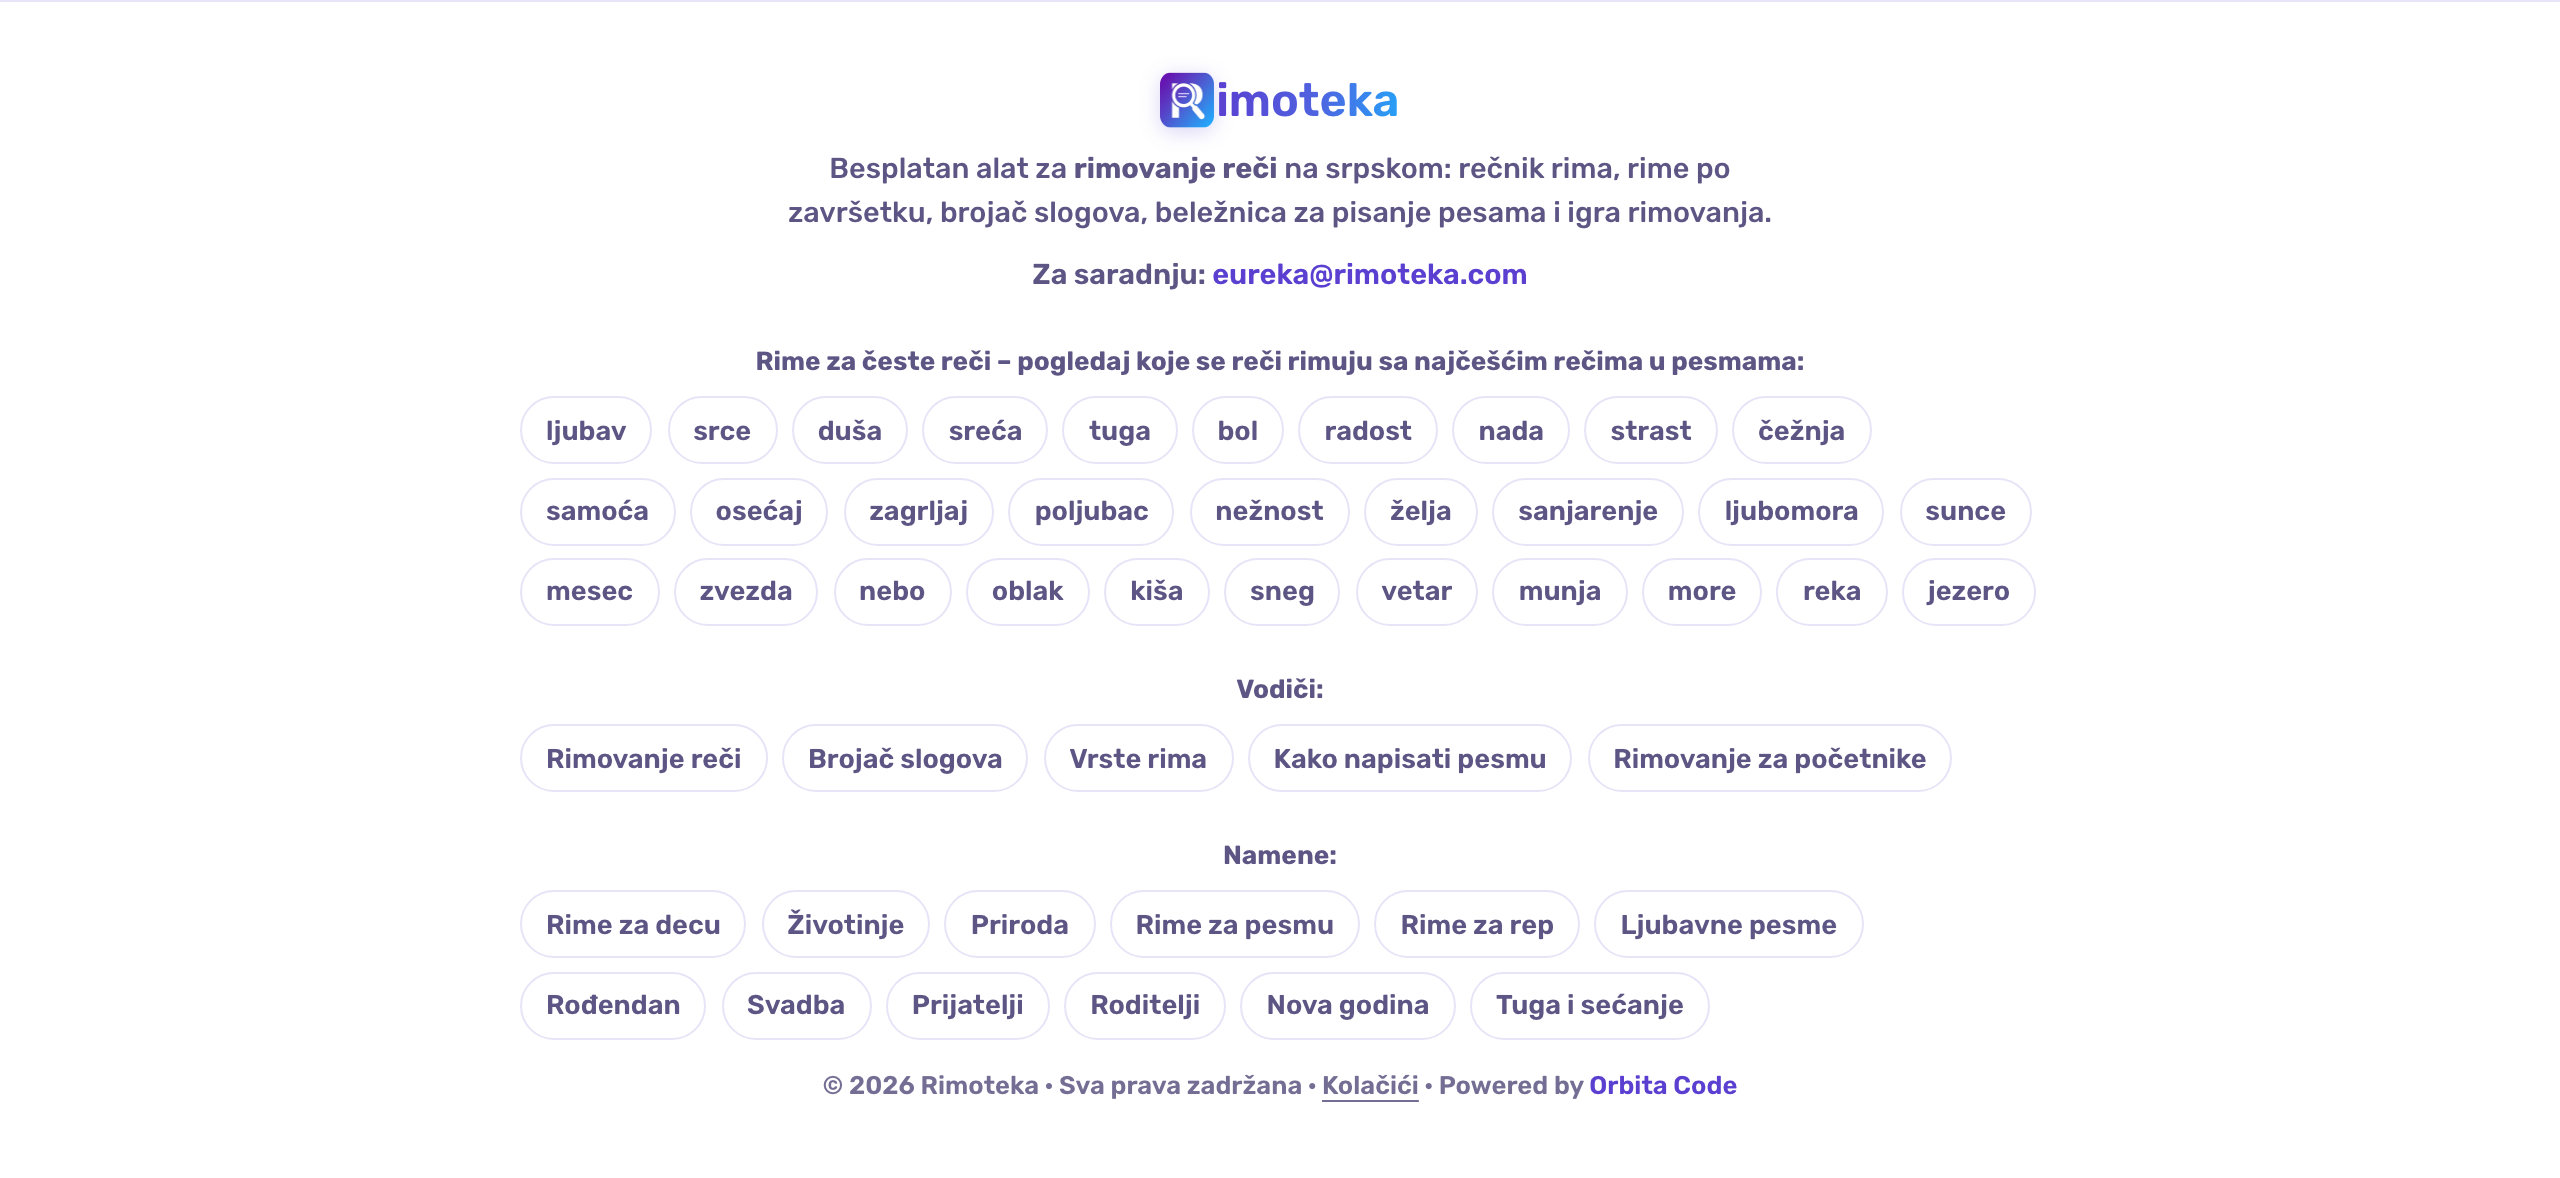
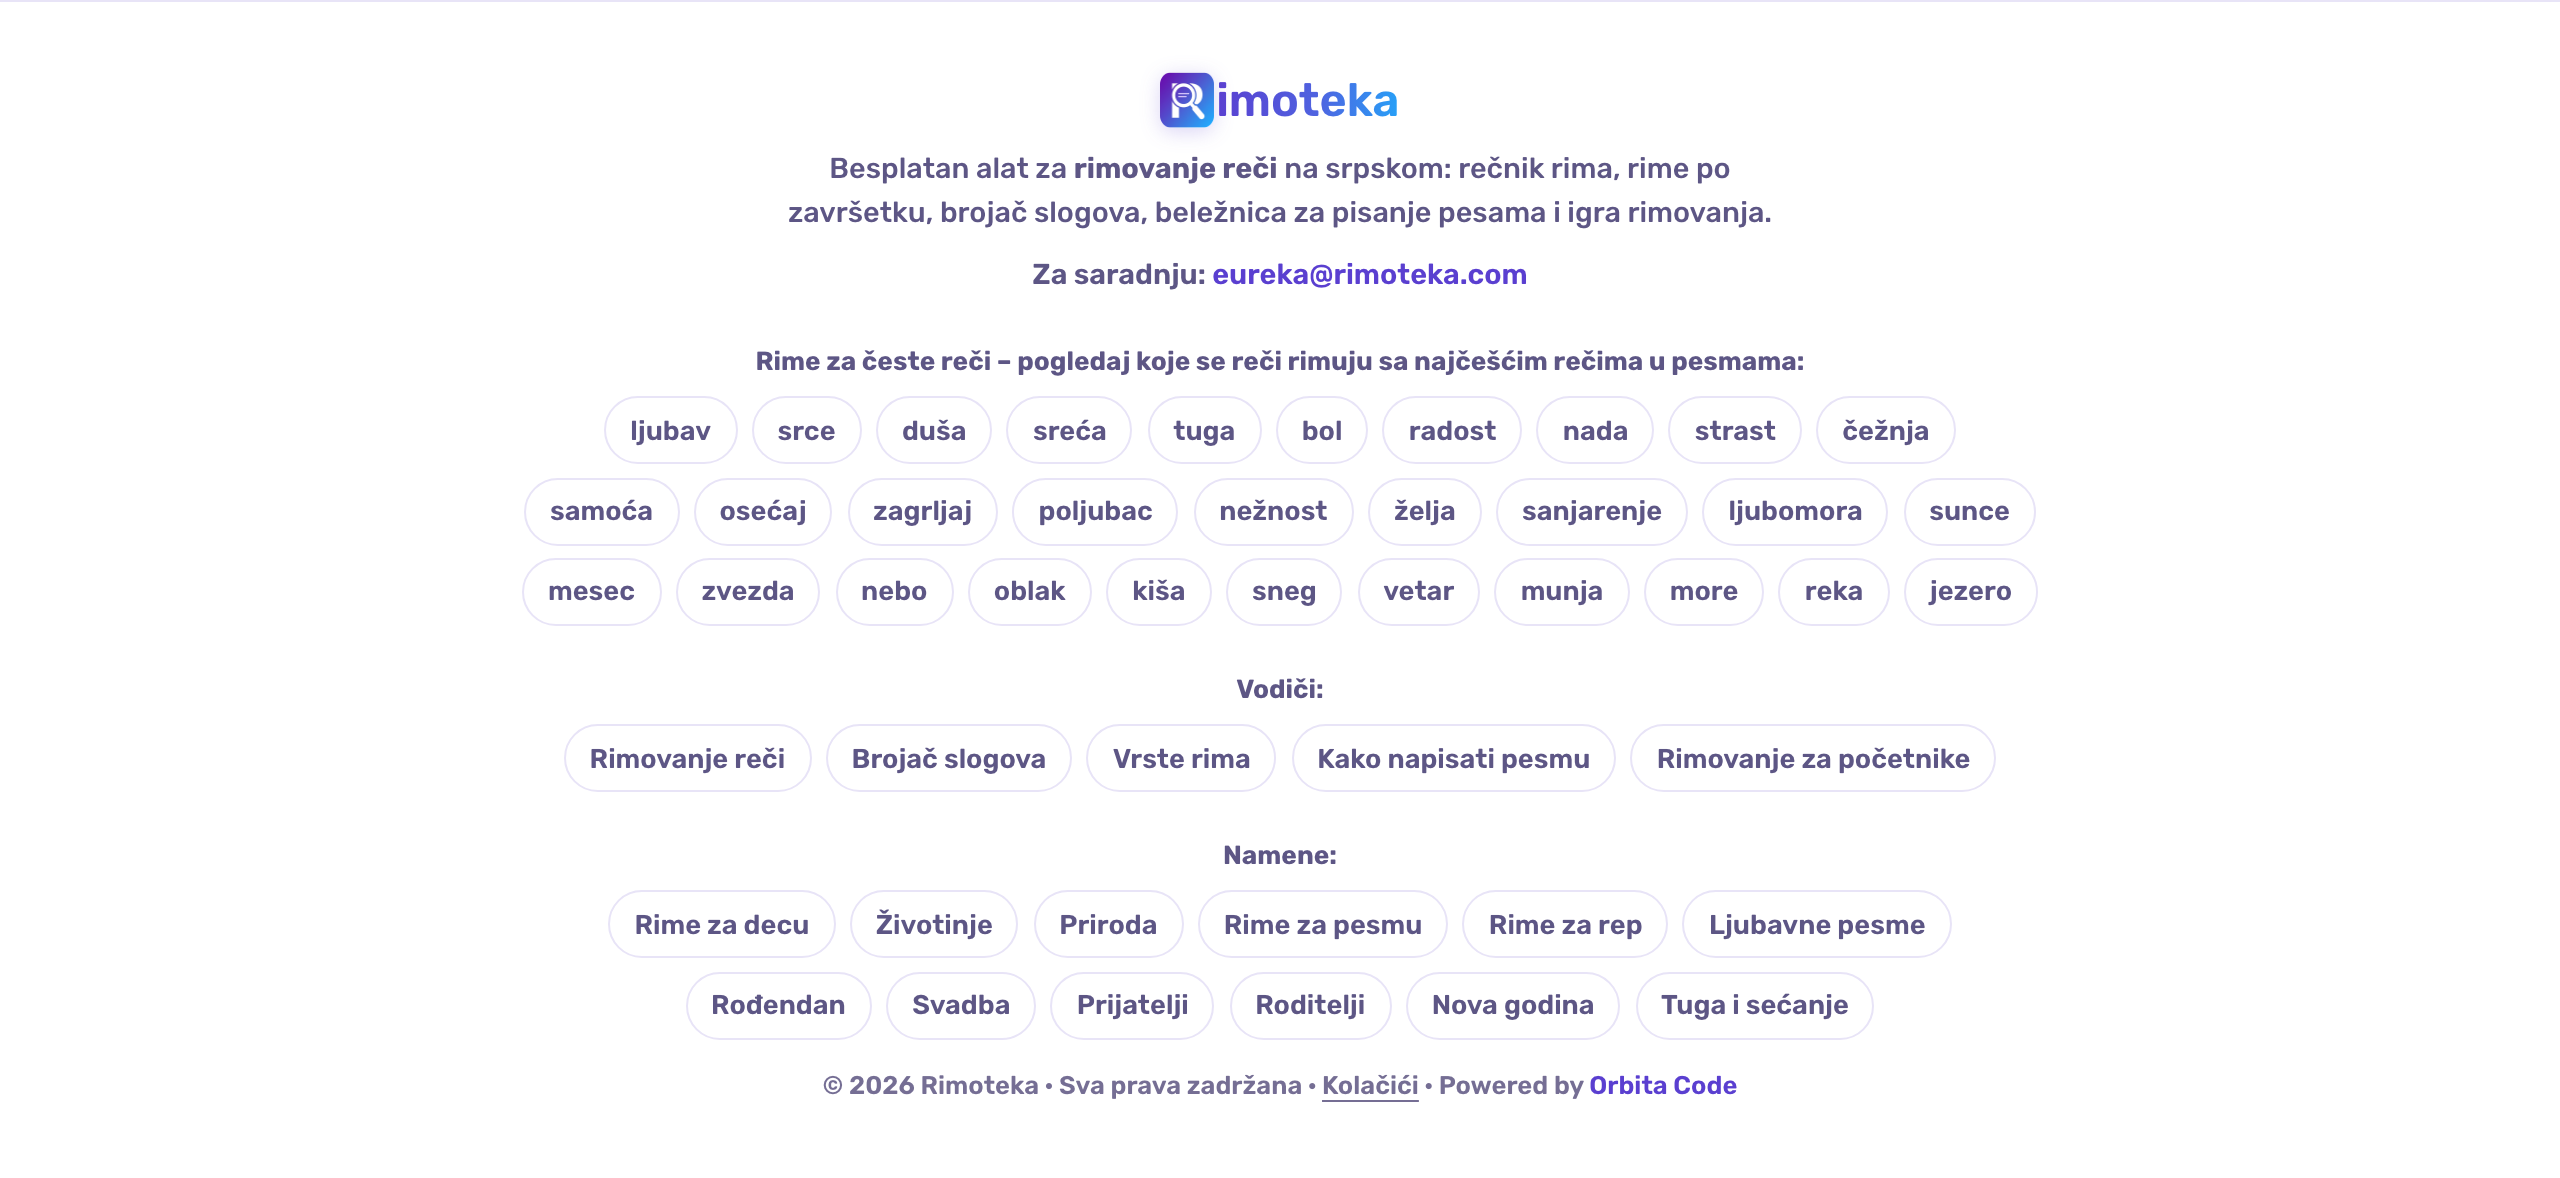
fix(kartica): na statičkim stranama fokus dugmeta pa klik zatvarao karticu kao „drugi dodir“; skrol pregledača pri fokusu ne zatvara; ni pokret miša posle pretrage ne otvara; testovi 40b i 46b po klik-pravilu; app v=w
Claude-Session: https://claude.ai/code/session_017vNbNBnhfqXuiBtdVWtpfK

diff --git a/public/app.js b/public/app.js
@@ -914,11 +914,13 @@ document.addEventListener('keydown', (e) => {
     e.preventDefault(); const w = cipTrakaZa && cipTrakaZa.querySelector('.word'); if(w) w.focus();
   }
 });
+let trakaOtvorenaU = 0;
 function otvoriCipTraku(cip, rec){
   const t = napraviCipTraku();
   if(cipTrakaZa === cip && !t.hidden){ zatvoriCipTraku(); return; }   // drugi dodir zatvara
   zatvoriCipTraku();
   cipTrakaZa = cip;
+  trakaOtvorenaU = Date.now();
   cip.classList.add('chip-izabran');
   const omiljena = isFav(rec);
   t.innerHTML =
@@ -1006,9 +1008,13 @@ document.addEventListener('click', (e) => {
   }
   e.preventDefault();
   e.stopPropagation();
+  /* Dugme (statičke strane `/rime-za/`) dobije fokus PRE klika, pa je `focusin` već otvorio karticu –
+     klik ne sme da je odmah zatvori kao „drugi dodir" (08.09.2026: na statičkim stranama klik nije radio). */
+  if(cipTrakaZa === cip && cipTraka && !cipTraka.hidden && Date.now() - trakaOtvorenaU < 600) return;
   otvoriCipTraku(cip, cip.dataset.w || cip.dataset.rec || '');
 }, true);
-window.addEventListener('scroll', zatvoriCipTraku, { passive: true });
+/* Skrol zatvara karticu – ali ne skrol koji pregledač sam napravi dok dovodi kliknuto dugme u kadar. */
+window.addEventListener('scroll', () => { if(Date.now() - trakaOtvorenaU > 600) zatvoriCipTraku(); }, { passive: true });
 
 /* RAČUNAR – traka nad reči na prelazak mišem ili fokus tastaturom (06.09.2026,
    odluka vlasnice, varijanta B). Ikonice ⓘ ♡ 🔁 ⚑ više ne stoje u kapsuli (CSS
@@ -1024,6 +1030,7 @@ let trakaCekaPokret = false;
 document.addEventListener('mousemove', (e) => {
   if(!trakaCekaPokret) return;
   trakaCekaPokret = false;
+  return;   // 08.09.2026: kartica se otvara samo klikom (odluka vlasnice) – ni ovaj put ne otvara na prelazak
   /* Pregledač šalje `mouseover` PRE `mousemove`, pa je prvi ulazak u reč posle pretrage
      već propušten – zato se ovde otvara traka za reč pod kursorom (inače bi korisnik
      morao da izađe iz reči i vrati se). */

diff --git a/public/index.html b/public/index.html
@@ -695,7 +695,7 @@
 
 <div id="printArea" aria-hidden="true"></div>
 
-<script src="app.js?v=20260908v"></script>
+<script src="app.js?v=20260908w"></script>
 <!-- Pokret na karticama ISPOD alata. `defer` – ne sme da uspori dolazak do
      rime; ako se ne učita, kartice su i dalje vidljive i čitljive. -->
 <script src="/kartice.js?v=1" defer></script>

diff --git a/public/404.html b/public/404.html
@@ -50,6 +50,6 @@
     <p class="footer-legal">© 2026 Rimoteka · <a href="/" class="footer-link">Početna</a></p>
   </div>
 </footer>
-<script src="/app.js?v=20260908v"></script>
+<script src="/app.js?v=20260908w"></script>
 </body>
 </html>

diff --git a/build/gen_pages.py b/build/gen_pages.py
@@ -480,7 +480,7 @@ TOOL_HTML = """  <div class="landing-tool">
     <div id="rimeResults" class="results"></div>
   </div>
 """
-TOOL_SCRIPT = '<script src="/app.js?v=20260908v"></script>\n'
+TOOL_SCRIPT = '<script src="/app.js?v=20260908w"></script>\n'
 
 # Rečnik kreće zajedno sa HTML-om, ne tek kad app.js stigne i pokrene se (nalaz A5,
 # 07.09.2026). Adresa MORA biti slovo u slovo ista kao u `app.js` (`uzmiTekst('/reci.txt?v=…')`)
